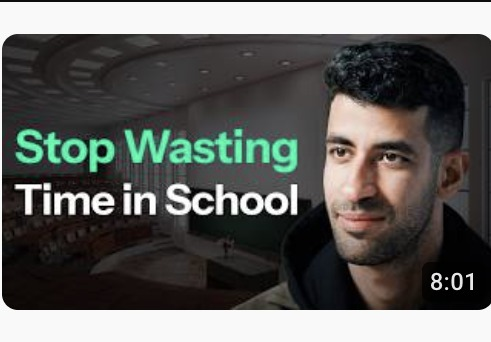
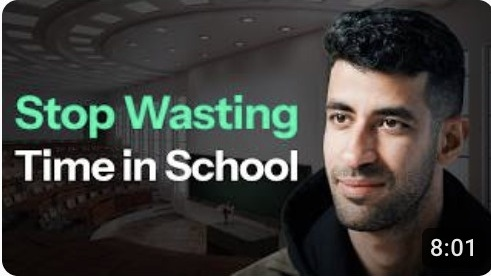
Polish UI details: fix A/B thumbnail sizing, card consistency, and null titles
- Crop white letterbox from 10 A/B thumbnail files (top/bottom)
- A/B variant frame: aspect-ratio 16/9 + overflow hidden + border-radius 10px
- Winner badge z-index fix so it's not hidden behind thumbnail frame
- Card thumbnails: maxresdefault.jpg with onload/onerror fallback to mqdefault
- Otter.ai card: thumbZoom flag for slight scale-up to match others
- A/B variant title: show parent video title when variant title is null

diff --git a/index.html b/index.html
@@ -100,6 +100,9 @@
       position: absolute; inset: 0; width: 100%; height: 100%;
       object-fit: cover;
     }
+    .thumb-wrap img.thumb-zoom {
+      transform: scale(1.15);
+    }
     .badge-num {
       position: absolute; top: 6px; left: 6px;
       background: rgba(0,0,0,0.75);
@@ -171,14 +174,15 @@
     .ab-variants { display: flex; gap: 12px; flex-wrap: wrap; }
     .ab-variant {
       flex: 1; min-width: 200px;
-      background: #111; border-radius: 8px;
+      background: #111; border-radius: 12px;
       padding: 12px; position: relative;
     }
     .ab-variant.is-winner { border: 2px solid #ffd700; }
-    .ab-thumb { width: 100%; border-radius: 6px; display: block; }
-    .ab-thumb-placeholder { aspect-ratio: 16/9; background: #222; border-radius: 6px; display: flex; align-items: center; justify-content: center; }
+    .ab-thumb-frame { width: 100%; aspect-ratio: 16/9; border-radius: 10px; overflow: hidden; position: relative; }
+    .ab-thumb { width: 100%; height: 100%; object-fit: cover; display: block; }
+    .ab-thumb-placeholder { width: 100%; height: 100%; background: #222; display: flex; align-items: center; justify-content: center; }
     .ab-thumb-placeholder::after { content: 'No thumbnail'; font-size: 11px; color: #555; }
-    body.light .ab-thumb-placeholder { background: #ddd; }
+    body.light .ab-thumb-placeholder { background: #ddd; border-radius: 0; }
     body.light .ab-thumb-placeholder::after { color: #999; }
     .ab-variant-title { font-size: 11px; color: #ccc; margin-top: 8px; line-height: 1.4; }
     .ab-bar-wrap { margin-top: 8px; background: #333; border-radius: 4px; height: 6px; overflow: hidden; }
@@ -190,6 +194,7 @@
       background: #ffd700; color: #000;
       font-size: 10px; font-weight: 700;
       padding: 2px 6px; border-radius: 4px;
+      z-index: 2;
     }
     .ab-close {
       position: absolute; top: 12px; right: 16px;
@@ -248,7 +253,7 @@
 
 <script>
 const videos = [
-  {"id":"7yMetPnsFT0","title":"35M Users. $100M ARR. My 10-Year Bet Was Right. | Otter.ai, Sam Liang","views":"5.9K views","viewsN":5900},
+  {"id":"7yMetPnsFT0","title":"35M Users. $100M ARR. My 10-Year Bet Was Right. | Otter.ai, Sam Liang","views":"5.9K views","viewsN":5900,"thumbZoom":true},
   {"id":"CxFQykWiJqY","title":"\"50 AI Agents Running My Company\" Is a Lie. Here's How I Build It | Gumloop, Max Brodeur-Urbas","views":"76K views","viewsN":76000,"ab":{"period":"Test finished. Ran from March 16, 2026 at 10:30 PM to March 18, 2026 at 10:57 AM.","variants":[{"thumbUrl":"thumbnails/CxFQykWiJqY_1.jpg","title":"\"50 AI Agents Running My Company\" Is a Lie. Here's How I Build It | Gumloop, Max Brodeur-Urbas","watchTimeShare":52.7,"winner":true},{"thumbUrl":"thumbnails/CxFQykWiJqY_2.jpg","title":"5 Rules of Building AI Agents That AI Bros Won't Teach You | Gumloop, Max Brodeur-Urbas","watchTimeShare":47.3,"winner":false}]}},
   {"id":"_-ybKTL2ehg","title":"This Founder is Making 1B+ Excel Workers 20x Faster | Meridian, John Ling","views":"16K views","viewsN":16000,"ab":{"period":"Test finished. Ran from March 12, 2026 at 11:00 PM to March 13, 2026 at 4:46 AM.","variants":[{"thumbUrl":"thumbnails/_-ybKTL2ehg_1.jpg","title":"What Silicon Valley's Top VCs Want in an AI Founder Right Now | Meridian, John Ling","watchTimeShare":29.9,"winner":false},{"thumbUrl":"thumbnails/_-ybKTL2ehg_2.jpg","title":"Silicon Valley's Top VCs Bet on This Founder Making Knowledge Work 20x Faster | Meridian, John Ling","watchTimeShare":22.3,"winner":false},{"thumbUrl":"thumbnails/_-ybKTL2ehg_3.jpg","title":"This Founder is Making 1B+ Excel Workers 20x Faster | Meridian, John Ling","watchTimeShare":47.8,"winner":true}]}},
   {"id":"qb6uCFyO098","title":"How I Found a Winning Idea After 8 Pivots | Pensive, Yoon","views":"13K views","viewsN":13000,"ab":{"period":"They all performed well. Ran from March 10, 2026 to March 13, 2026.","variants":[{"thumbUrl":"thumbnails/qb6uCFyO098_1.jpg","title":null,"watchTimeShare":49.9,"winner":true},{"thumbUrl":"thumbnails/qb6uCFyO098_2.jpg","title":null,"watchTimeShare":50.1,"winner":false}]}},
@@ -480,9 +485,12 @@ function render() {
     card.dataset.id = v.id;
     card.innerHTML = `
       <div class="thumb-wrap">
-        <img src="https://i.ytimg.com/vi/${v.id}/hqdefault.jpg"
+        <img src="https://i.ytimg.com/vi/${v.id}/maxresdefault.jpg"
+             onerror="this.onerror=null;this.src='https://i.ytimg.com/vi/${v.id}/mqdefault.jpg'"
+             onload="if(this.naturalWidth<=120){this.onload=null;this.src='https://i.ytimg.com/vi/${v.id}/mqdefault.jpg'}"
              alt="${v.title.replace(/"/g,'&quot;')}"
-             loading="lazy">
+             loading="lazy"
+             ${v.thumbZoom ? 'class="thumb-zoom"' : ''}>
         <span class="badge-num">${badgeText}</span>
         ${currentSort === 'playlist' ? `<span class="badge-views">${v.views}</span>` : ''}
         ${currentSort === 'ctr' && v.impressions ? `<span class="badge-views">${v.impressions >= 1000000 ? (v.impressions/1000000).toFixed(1)+'M' : (v.impressions/1000).toFixed(0)+'K'} imp</span>` : ''}
@@ -530,7 +538,7 @@ document.getElementById('ab-close').addEventListener('click', () => overlay.clas
 overlay.addEventListener('click', e => { if (e.target === overlay) overlay.classList.remove('open'); });
 
 function openModal(v) {
-  abMainThumb.src = `https://i.ytimg.com/vi/${v.id}/hqdefault.jpg`;
+  abMainThumb.src = `https://i.ytimg.com/vi/${v.id}/mqdefault.jpg`;
   abMainThumb.alt = v.title;
   abTitleEl.textContent = v.title;
   abViewsEl.textContent = v.views;
@@ -543,11 +551,11 @@ function openModal(v) {
       const barWidth = vr.watchTimeShare != null ? vr.watchTimeShare + '%' : '0%';
       return `<div class="ab-variant${vr.winner ? ' is-winner' : ''}">
         ${vr.winner ? '<span class="ab-winner-badge">Winner</span>' : ''}
-        ${vr.thumbUrl
-          ? `<img class="ab-thumb" src="${vr.thumbUrl}" onerror="this.outerHTML='<div class=\\'ab-thumb ab-thumb-placeholder\\'></div>'" alt="Variant ${i+1}">`
+        <div class="ab-thumb-frame">${vr.thumbUrl
+          ? `<img class="ab-thumb" src="${vr.thumbUrl}" onerror="this.parentElement.innerHTML='<div class=\\'ab-thumb ab-thumb-placeholder\\'></div>'" alt="Variant ${i+1}">`
           : `<div class="ab-thumb ab-thumb-placeholder"></div>`
-        }
-        <div class="ab-variant-title">${vr.title}</div>
+        }</div>
+        <div class="ab-variant-title">${vr.title || v.title}</div>
         <div class="ab-bar-wrap"><div class="ab-bar-fill${vr.winner ? '' : ' loser'}" style="width:${barWidth}"></div></div>
         <div class="ab-pct">${pct}</div>
       </div>`;
